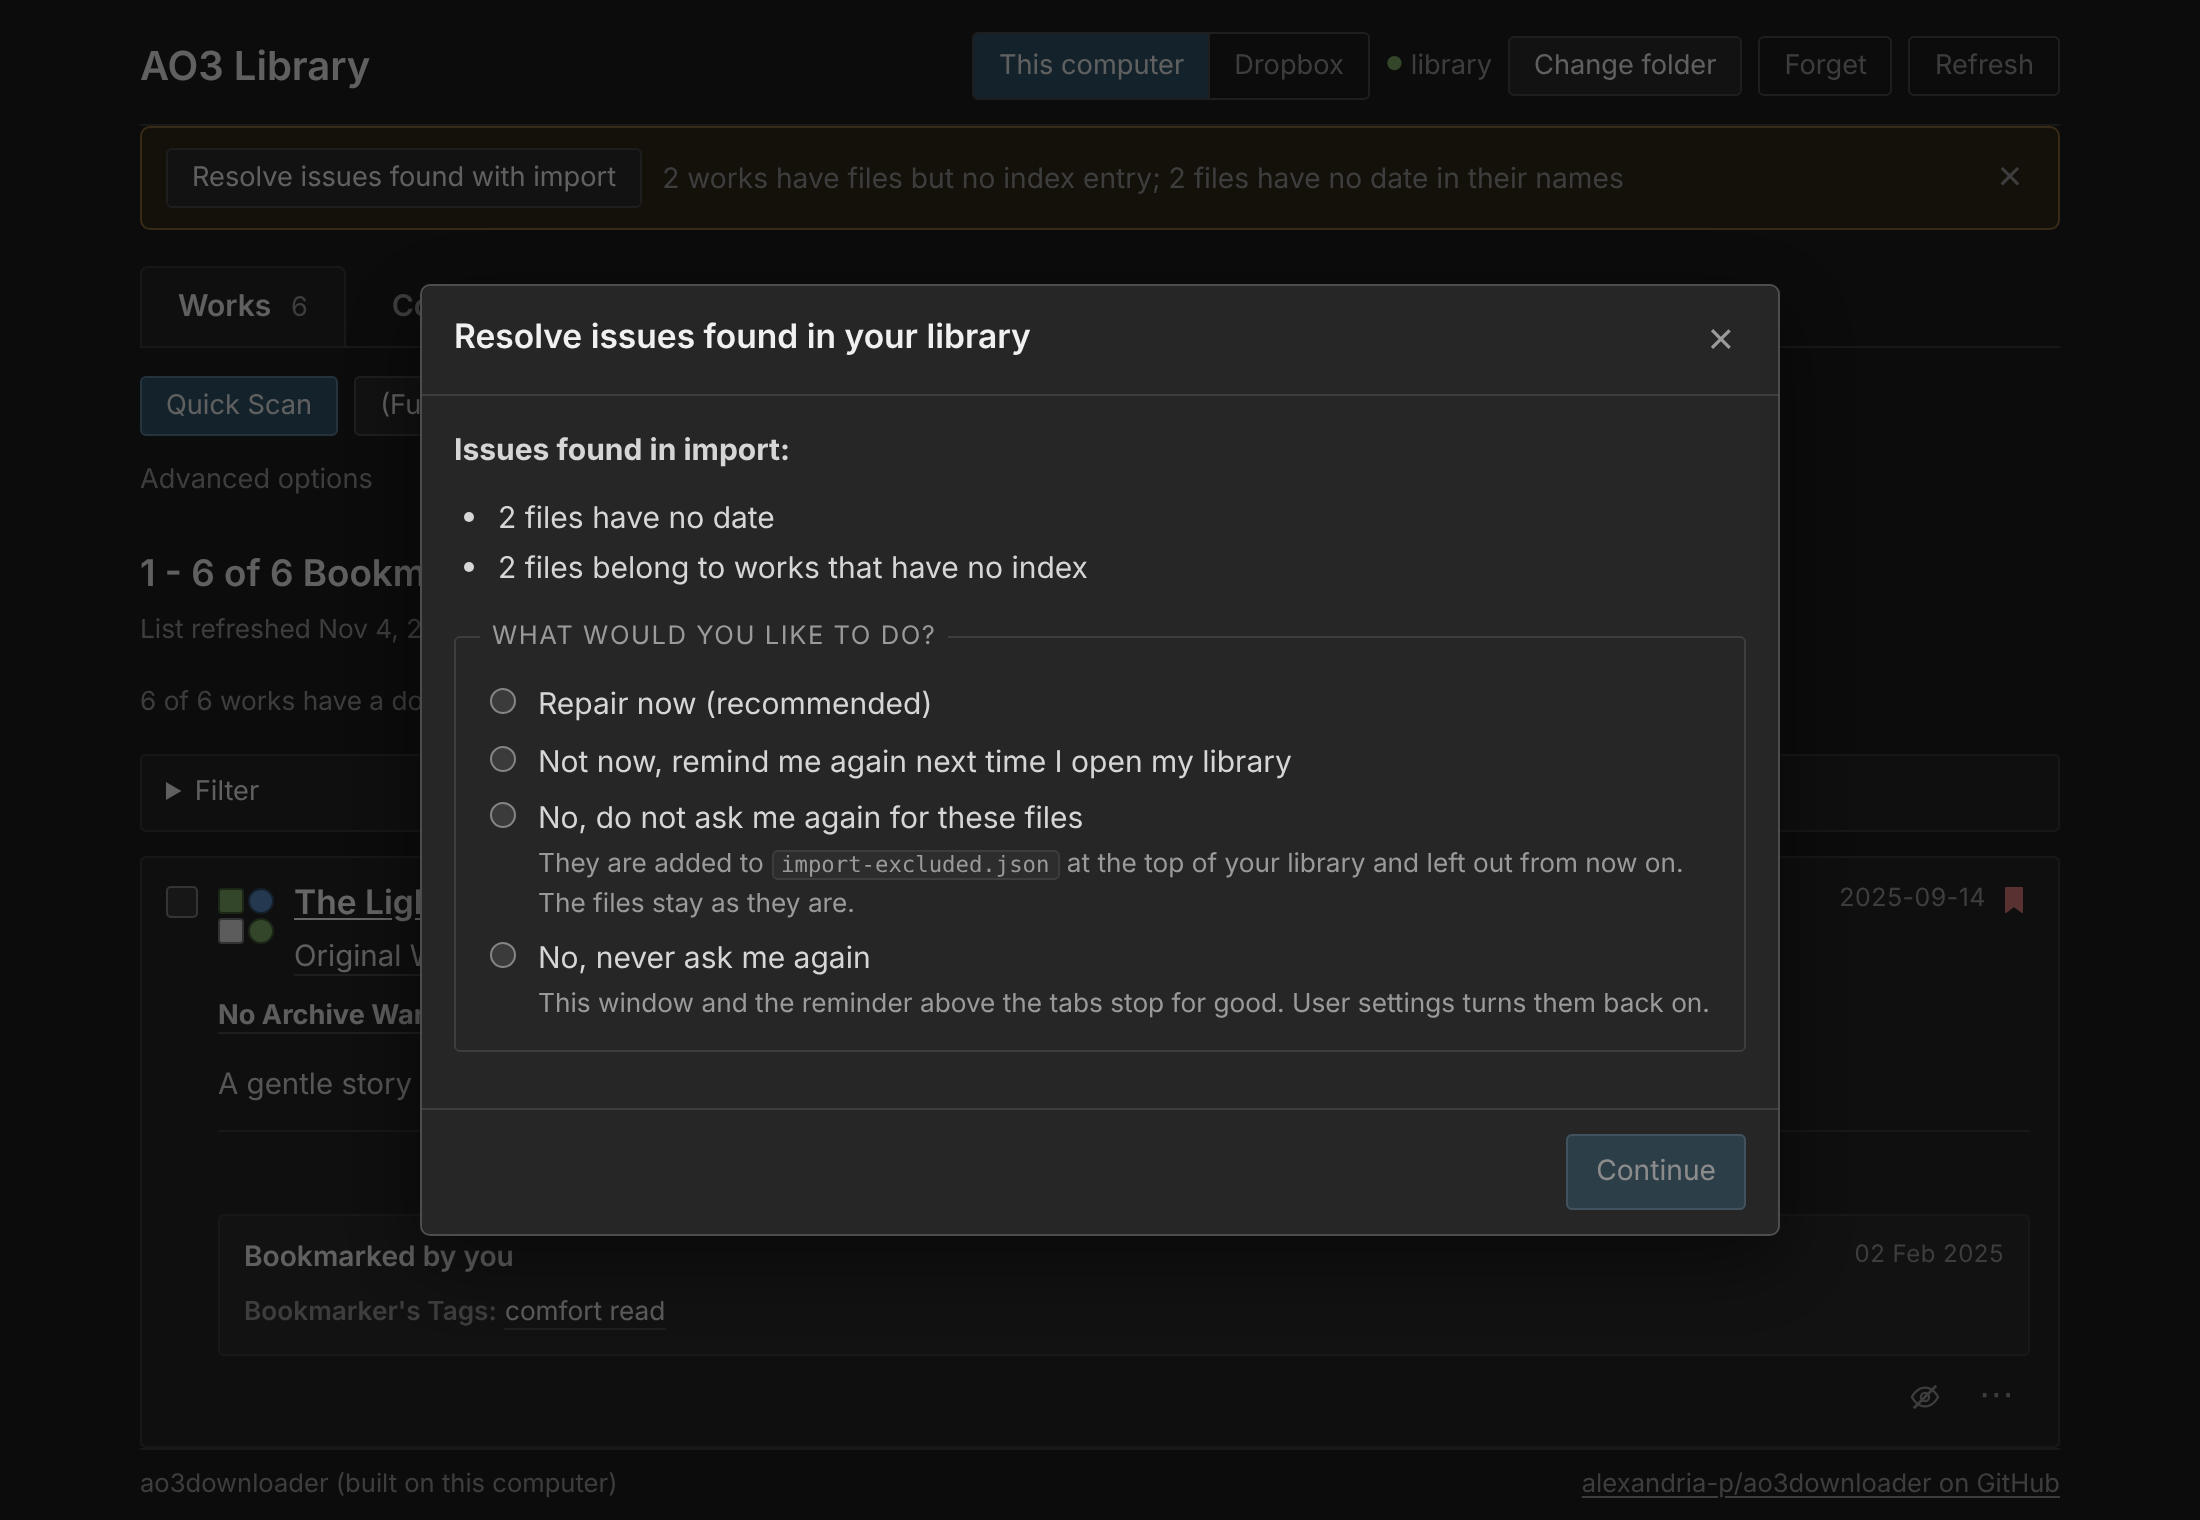
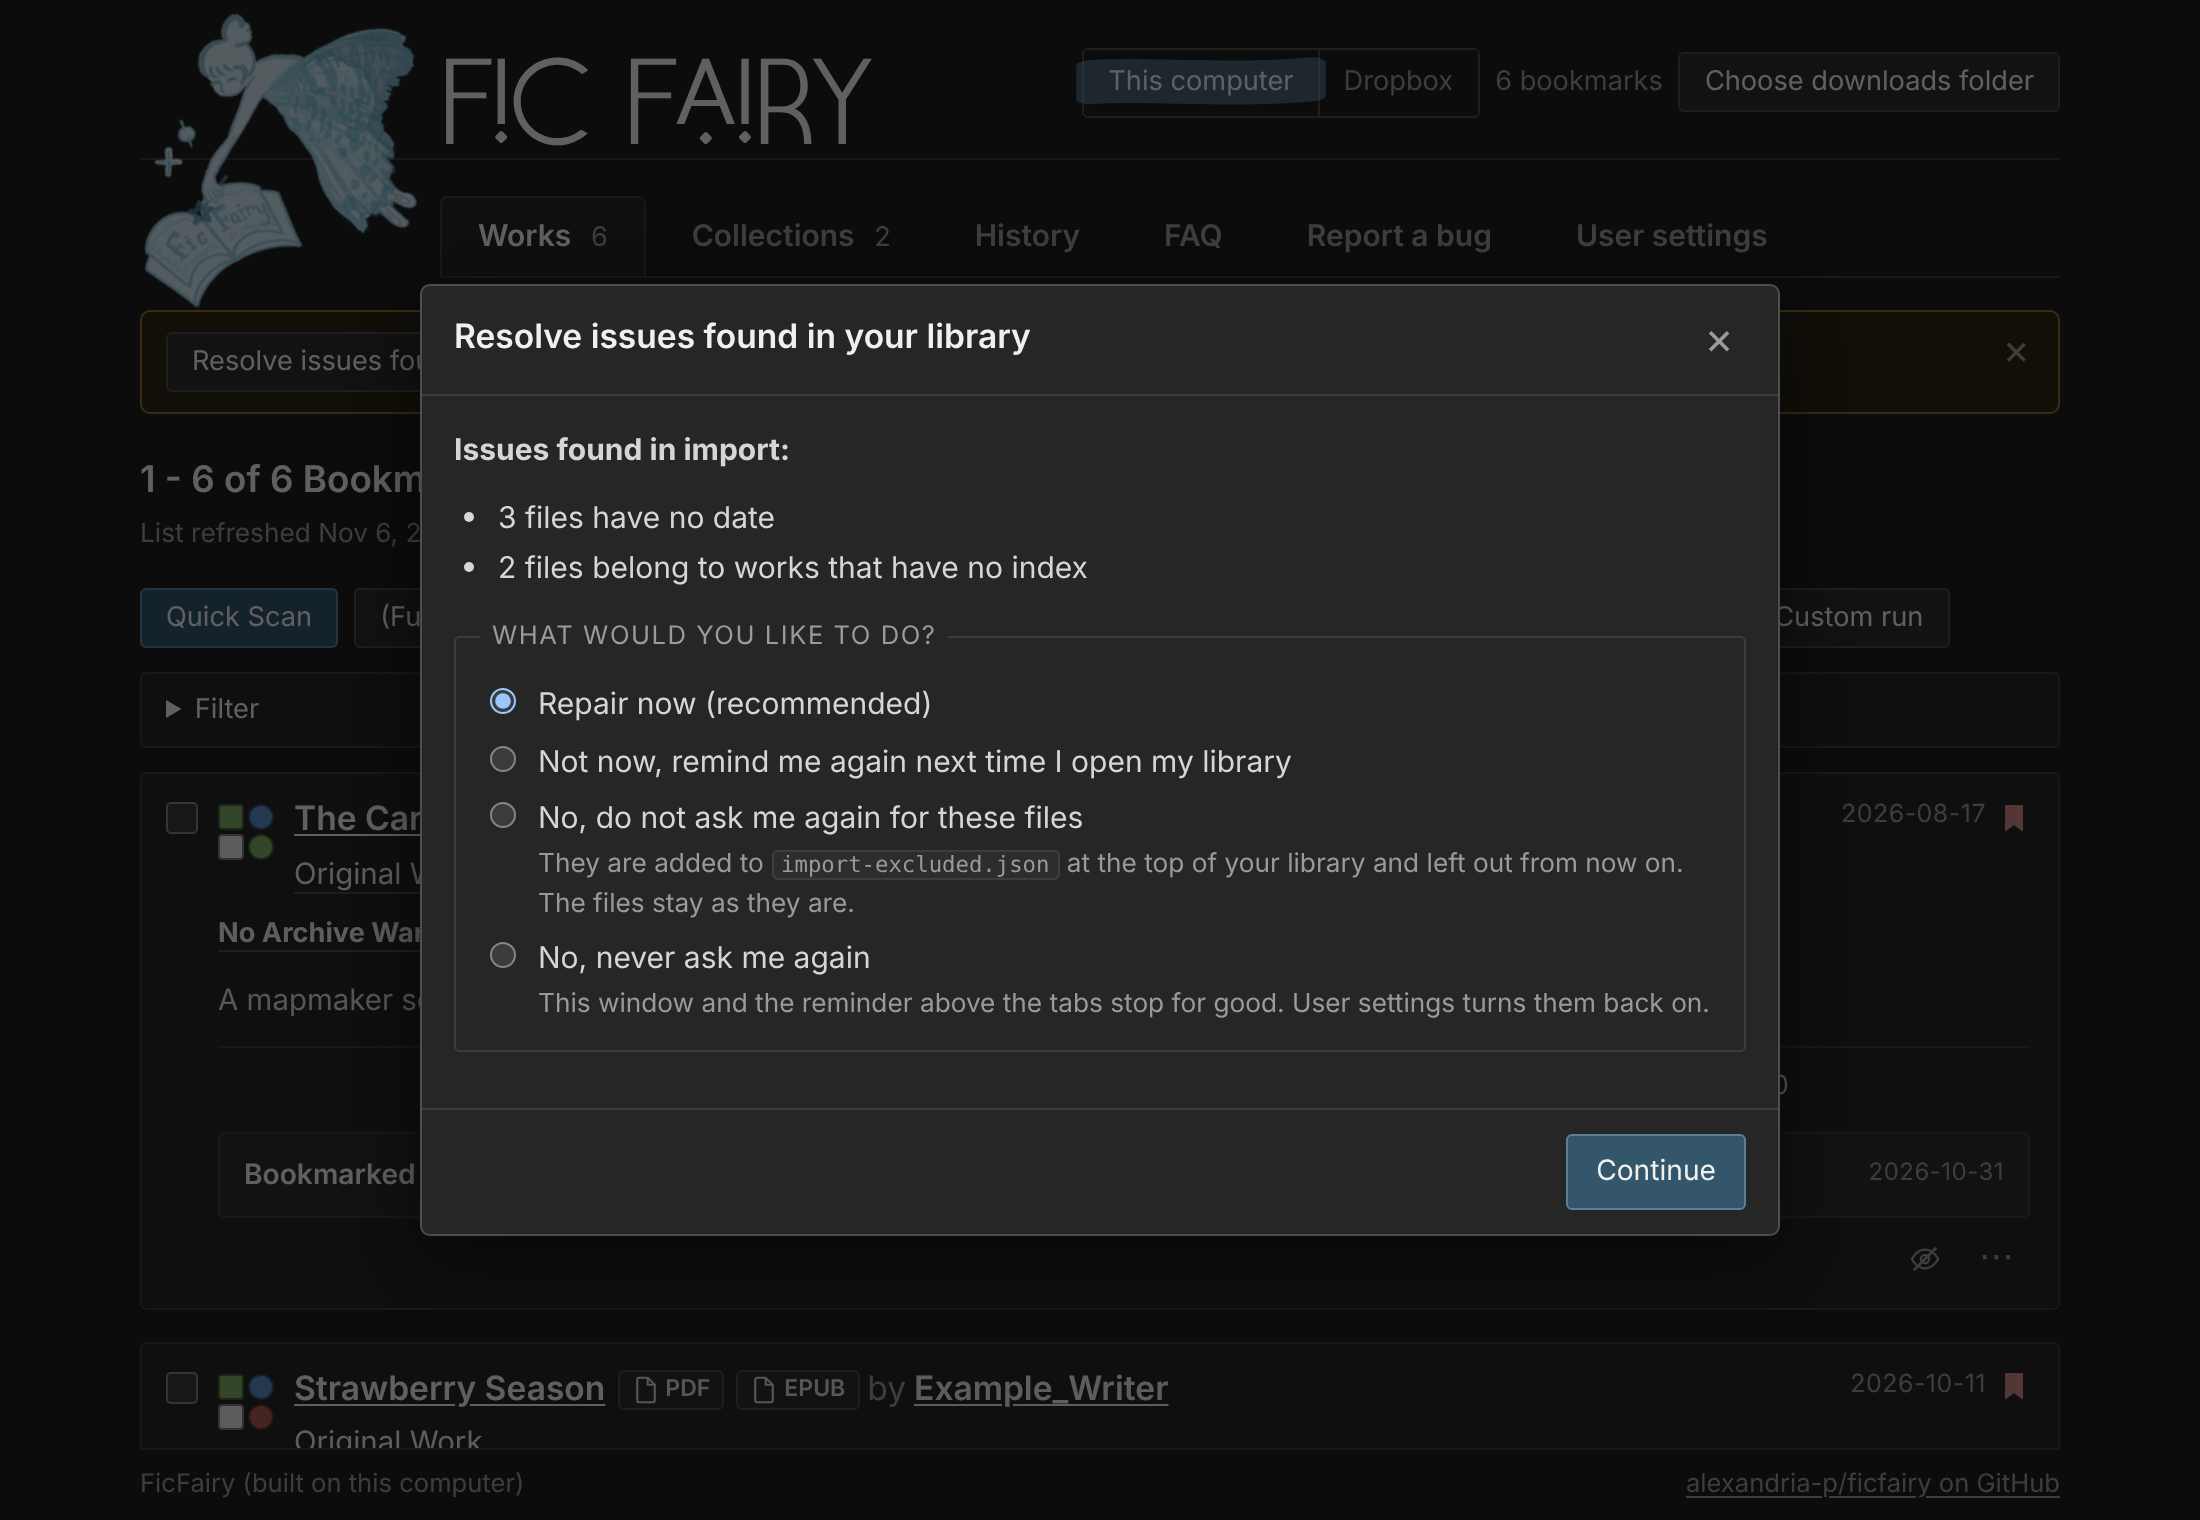
New README screenshots, and clearer wording after feedback is sent
Screenshots of a made-up library: the works list, a Quick Scan, Resolve issues,
and new ones of Collections and History. The thank-you page now says the
feedback may take up to a minute to show in the list.

Claude-Session: https://claude.ai/code/session_014j8XzareNA3X2zgMNBKi8K

diff --git a/gui_source/src/app/feedback.html b/gui_source/src/app/feedback.html
@@ -21,10 +21,9 @@
               <a [href]="issue.url" target="_blank" rel="noopener">issue #{{ issue.number }}</a>.
             </p>
             <p>
-              It shows up in the
-              <a [href]="feedbackList()" target="_blank" rel="noopener">list of feedback</a>
-              within a minute - GitHub's list can take that long to catch up. Nobody needs an
-              account to read it, and any reply is posted there.
+              It may take up to a minute to
+              <a [href]="feedbackList()" target="_blank" rel="noopener">show in the list</a>. You do
+              not need an account to read it, and any replies to the topic will be posted there.
             </p>
           </section>
           <footer>

diff --git a/gui_source/src/app/feedback.spec.ts b/gui_source/src/app/feedback.spec.ts
@@ -207,7 +207,7 @@ describe('Feedback', () => {
     });
     const link = element.querySelector('a[href="https://github.com/o/r/issues/12"]');
     expect(link?.textContent).toContain('issue #12');
-    expect(element.textContent).toContain('within a minute');
+    expect(element.textContent).toContain('It may take up to a minute to');
     expect(element.querySelector('a[href*="label%3Afeedback"]')).not.toBeNull();
   });
 

diff --git a/README.md b/README.md
@@ -97,6 +97,10 @@ Again, this tool is only for personal use and I have been militant in ensuring t
 
 ![Importing files you already had](docs/screenshots/import.png)
 
+![Your collections, from AO3 and your own](docs/screenshots/collections.png)
+
+![Run history](docs/screenshots/history.png)
+
 ## More
 
 - [The wiki](https://github.com/alexandria-p/ficfairy/wiki): how to use each part of the app.
